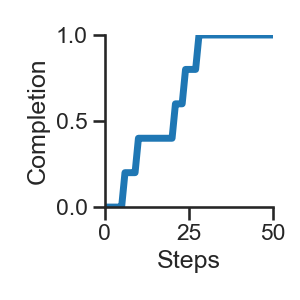
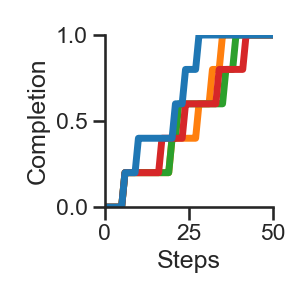
Finished partial salad run

Changed region(s): [[0.45, 0.12, 0.9, 0.6], [0.36, 0.66, 0.42, 0.69], [0.42, 0.63, 0.45, 0.66]]

diff --git a/gym_cooking/utils/agent.py b/gym_cooking/utils/agent.py
@@ -214,6 +214,9 @@ class RealAgent:
                 nextLoc = env.nextLocationBase(a, self.location)
                 if isinstance(nextLoc, Floor):
                     actionThatWorks.append(a)
+                elif not isinstance(nextLoc, Floor) and self.holding:
+                    actionThatWorks.append(a)
+
             stay = True
             for a in actions:
                 if env.is_occupied_location(a, self.location):
